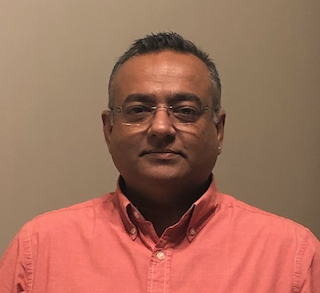
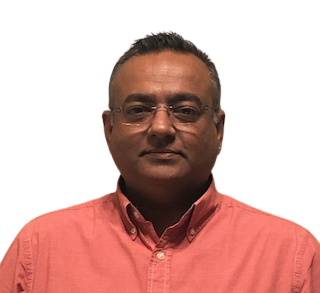
Header Section - desktop

diff --git a/src/components/Header/Header.css b/src/components/Header/Header.css
@@ -26,5 +26,38 @@ header {
   gap: 0.8rem;
   position: absolute;
   left: 0;
-  bottom: 0.3rem;;
+  bottom: 3rem;
+}
+
+.header__socials::after {
+  content: '';
+  width: 1px;
+  height: 2rem;
+  background: var(--color-primary);
+}
+
+/* HEADER IMAGE (ME) */
+
+.me {
+  background: linear-gradient(var(--color-primary), transparent);
+  width: 22rem;
+  height: 30rem;
+  position: absolute;
+  /* left: calc(50% - 11rem); */
+  left: 50%;
+  transform: translateX(-50%);
+  margin-top: 4rem;
+  border-radius: 12rem 12rem 0 0;
+  padding: 1rem 1.5rem 1.5rem 1rem;
+}
+
+/* SCROLL DOWN */
+
+.scroll__down {
+  position: absolute;
+  right: -2.3rem;
+  bottom: 5rem;
+  transform: rotate(90deg);
+  font-weight: 300;
+  font-size: 0.9rem;
 }

diff --git a/src/components/Header/Header.tsx b/src/components/Header/Header.tsx
@@ -16,10 +16,11 @@ const Header = () => {
         <CTA />
         <Socials />
 
-        <div className="me"></div>
-        <img src={ME} alt='me' />
+        <div className="me">
+          <img src={ME} alt='me' />
+        </div>
+        <a href='#contact' className='scroll__down'>Scroll Down</a>
       </div>
-      <a href='#contact' className='scroll__down'>Scroll Down</a>
     </header>
   );
 };
